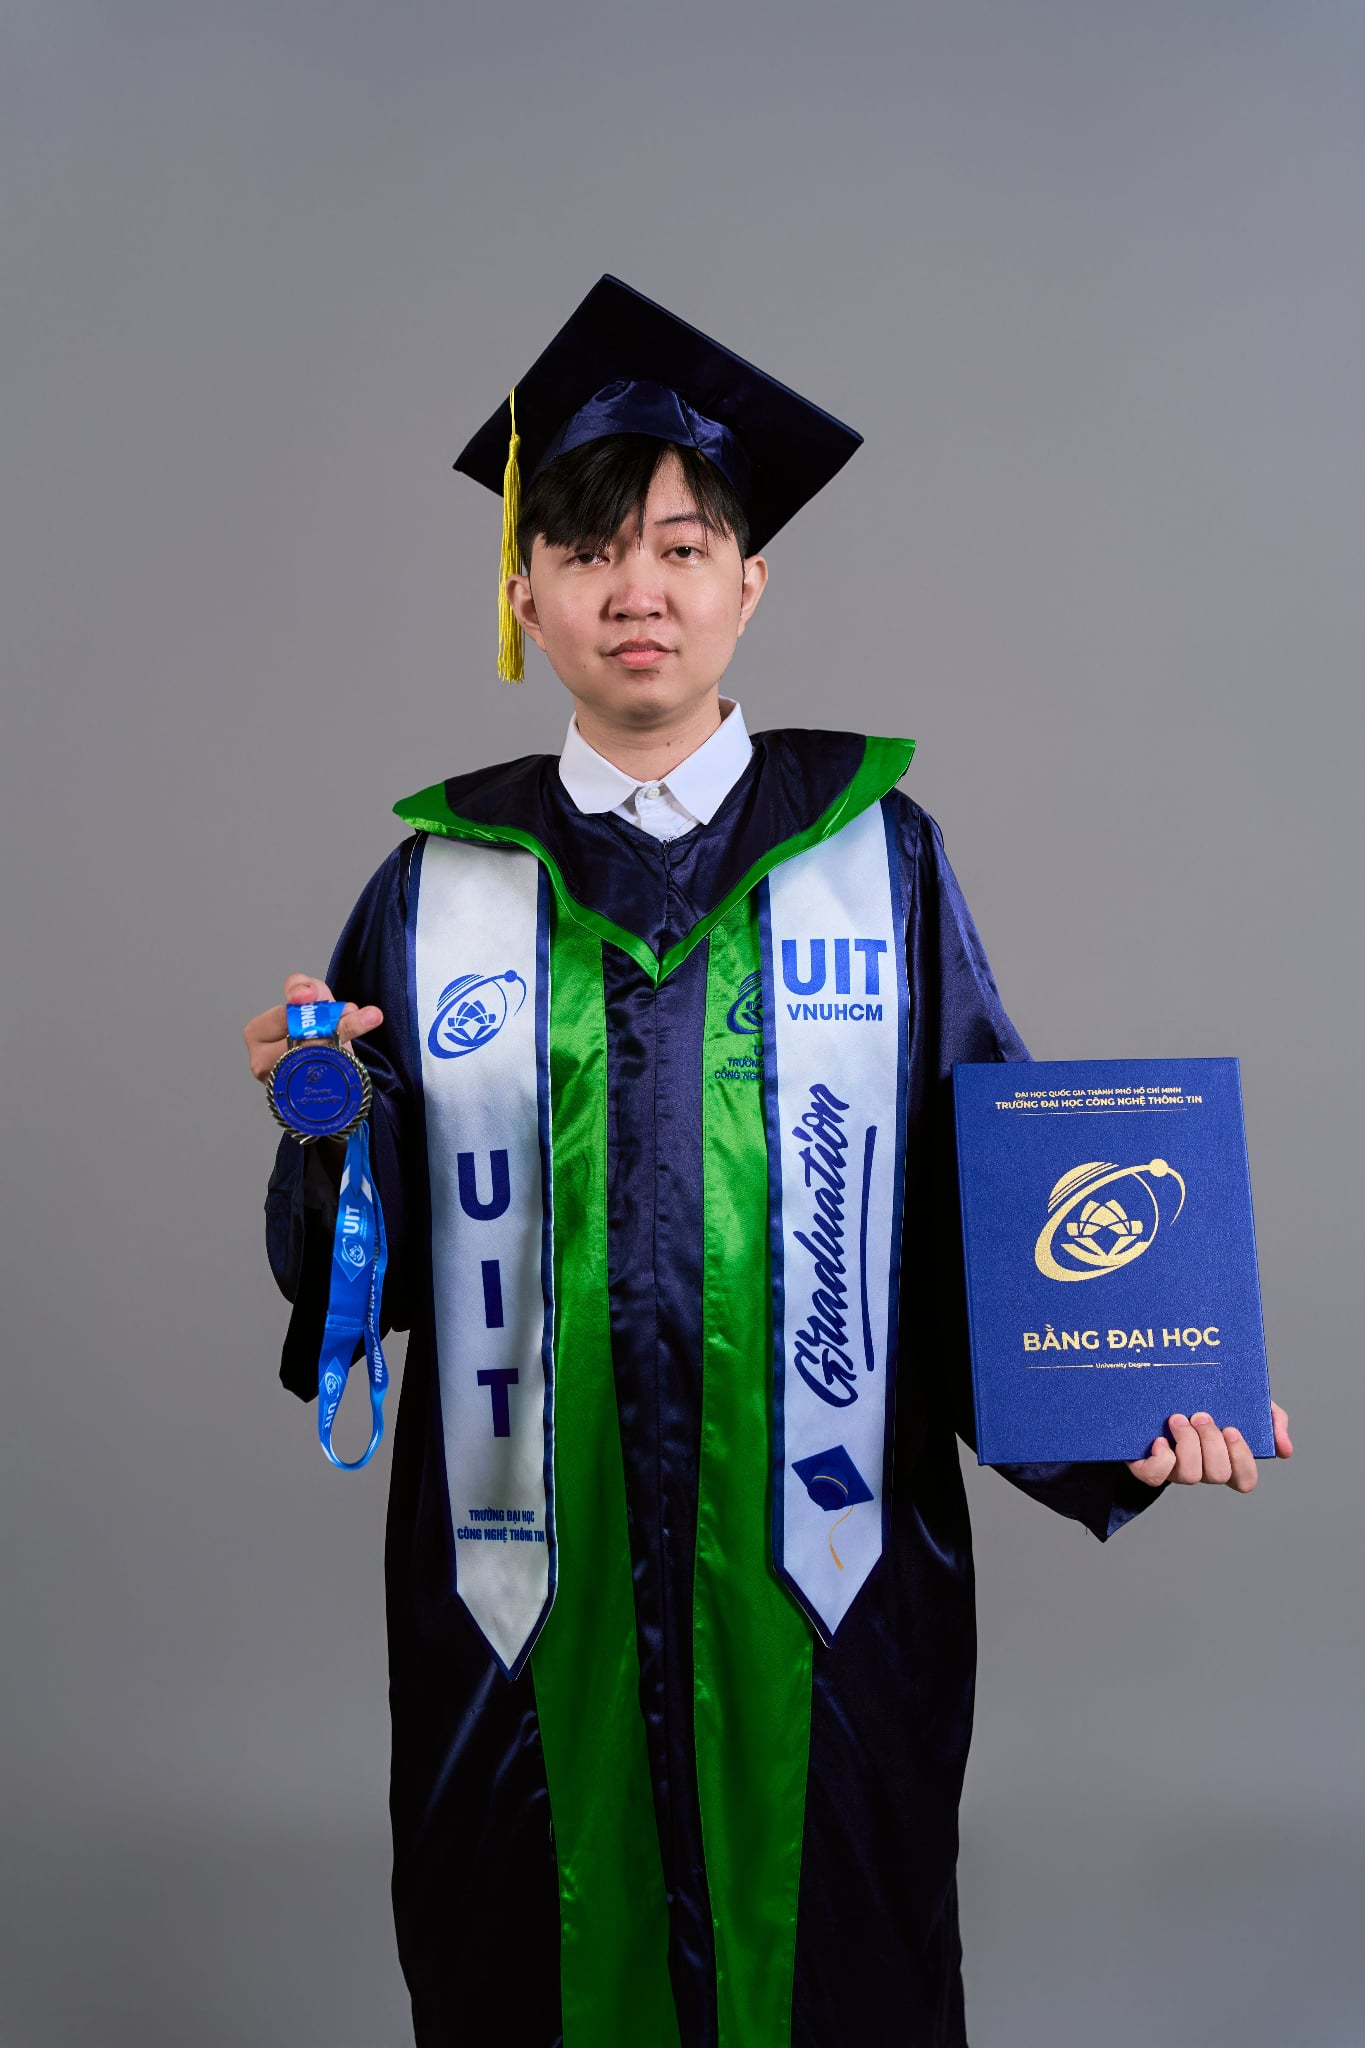
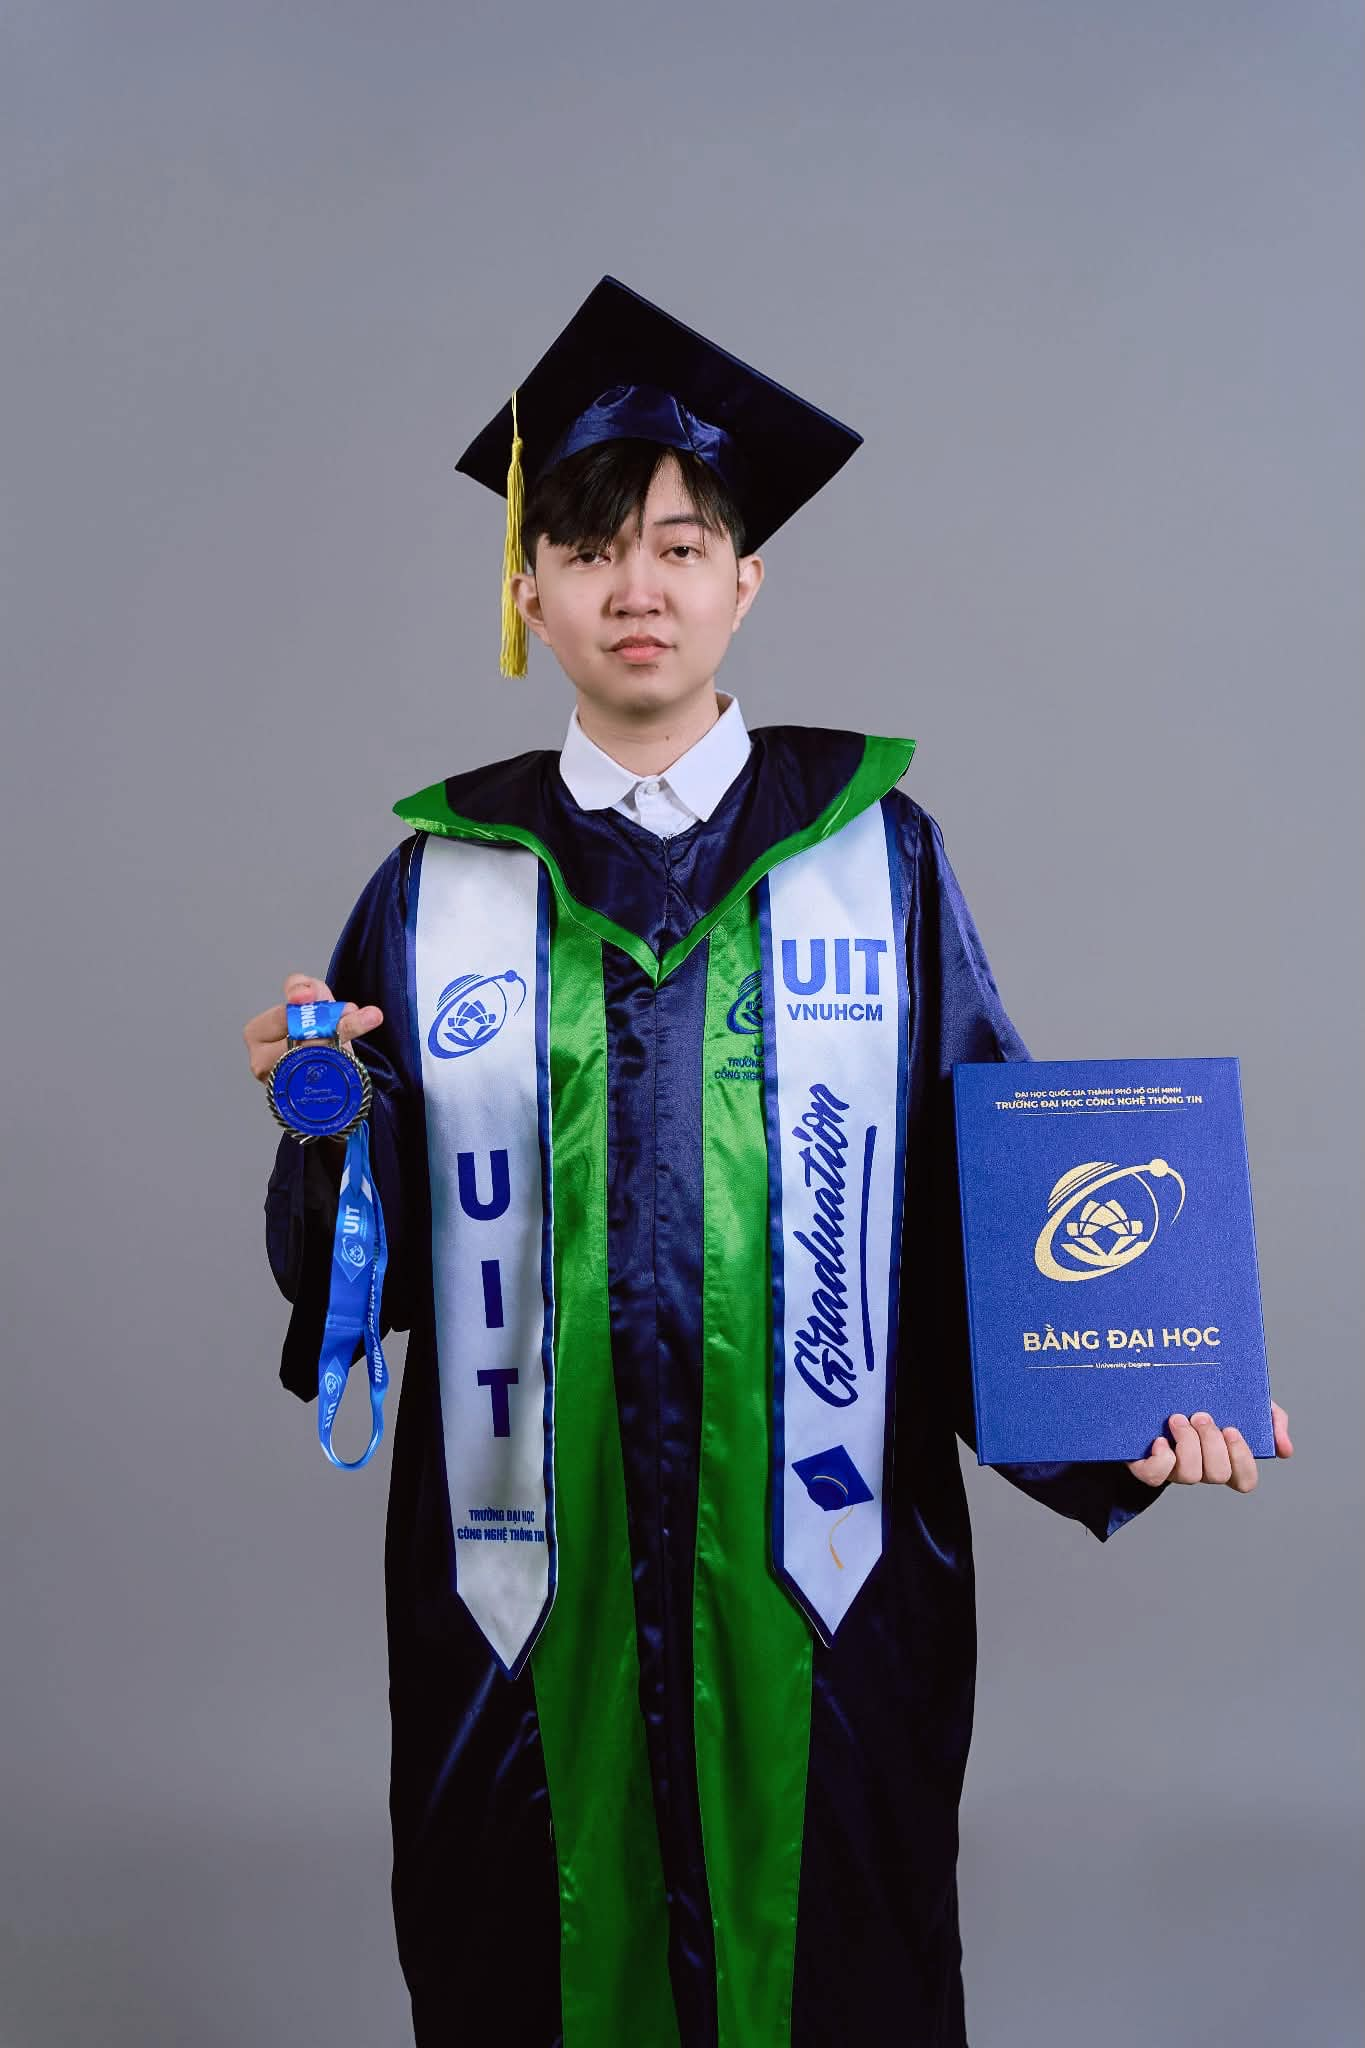
docs: add detailed config field comments
Update student portrait image.

diff --git a/invite.config.js b/invite.config.js
@@ -1,80 +1,169 @@
 /* =========================================================
    CHỈ SỬA FILE NÀY — mọi thông tin thiệp nằm ở đây.
+   Sau khi sửa, lưu file và tải lại trang (Ctrl+F5 nếu cần).
    ========================================================= */
 window.INVITE = {
+  // --- Thông tin cá nhân ---
+  // Họ tên đầy đủ (hiển thị lớn trên thiệp, tiêu đề trang, lịch, chân trang).
+  // Cách lấy: ghi đúng họ tên của bạn.
   studentName: "Trần Võ Sơn Tùng",
+  // Niên khóa tốt nghiệp (hiển thị ở dòng "Khoá ...").
+  // Cách lấy: năm tốt nghiệp, ví dụ "2026".
   graduationYear: "2026",
+  // Tên gọi thân mật/danh xưng. Dùng thay cho {name} trong tin nhắn SMS và hướng dẫn.
+  // Cách lấy: biệt danh hoặc cách bạn muốn người khác gọi (vd "Tùng", "Sơn Tùng").
   nickname: "Tùng Núi, Cụ",
+  // Học vị/ngành (hiển thị dưới tên và trong mô tả lịch).
+  // Cách lấy: ghi theo bằng tốt nghiệp, vd "Cử nhân Công nghệ Thông tin".
   degree: "Cử nhân Công nghệ Thông tin",
+  // Dòng chữ trên dải giấy đầu thiệp.
+  // Cách lấy: tự viết câu chúc/tiêu đề ngắn bạn muốn.
   heroLabel: "Chúc mừng bị đuổi khỏi trường",
-  // Mọi trường ảnh đều nhận URL hoặc file trong assets/.
-  // Có thể gõ "placeholder-portrait.svg" (tự hiểu là assets/placeholder-portrait.svg).
+
+  // --- Ảnh ---
+  // Mỗi trường ảnh nhận: URL ảnh (https://...), hoặc file trong thư mục assets/
+  //   - "assets/ten-anh.jpg" hoặc chỉ "ten-anh.jpg" (tự hiểu là assets/ten-anh.jpg)
+  // Cách lấy file local: chép ảnh vào thư mục assets/ rồi ghi tên file.
+  // Cách lấy URL: tải ảnh lên (Drive/Imgur/...) lấy link trực tiếp, hoặc chuột phải ảnh trên web > Sao chép địa chỉ hình ảnh.
+  // Nếu ảnh lỗi/không tải được, thiệp dùng ảnh dự phòng (entrancePhoto cho ảnh cổng, studentPhoto cho ảnh tốt nghiệp).
+
+  // Ảnh chân dung (ảnh trái ở phần đầu).
   studentPhoto: "assets/student-portrait.jpg",
+  // Ảnh tốt nghiệp (ảnh phải ở phần đầu). Nếu lỗi sẽ dùng studentPhoto.
   gradPhoto: "assets/graduate-photo.svg",
+  // Ảnh cổng/dự phòng khi ảnh của cổng không tải được.
   entrancePhoto: "assets/placeholder-gate.svg",
 
-  // Thời gian thực cho đếm ngược và "Lưu vào lịch" (mốc bắt đầu lễ).
+  // --- Thời gian thực (đếm ngược & "Lưu vào lịch") ---
+  // Đây là mốc thời gian máy dùng để đếm ngược và tạo file lịch (.ics), không phải chữ hiển thị.
   event: {
-    // Ngày: "DD/MM/YYYY" (vd "25/11/2026") hoặc "YYYY-MM-DD"
+    // Ngày diễn ra.
+    // Định dạng: "DD/MM/YYYY" (vd "25/11/2026") hoặc "YYYY-MM-DD" (vd "2026-11-25").
+    // Cách lấy: xem ngày trên giấy mời/lịch trường.
     date: "25/11/2026",
-    // Giờ 24h (mốc bắt đầu lễ): "HH:mm" (vd "13:30", "08:00")
+    // Giờ (mốc bắt đầu lễ), theo 24 giờ.
+    // Định dạng: "HH:mm" (vd "13:30", "08:00", "17:00").
     time: "13:30",
-    // Múi giờ/lệch UTC: "±HH:MM" (mặc định "+07:00" nếu bỏ trống)
+    // Múi giờ (độ lệch so với UTC).
+    // Định dạng: "±HH:MM". Việt Nam là "+07:00". Bỏ trống sẽ mặc định "+07:00".
     timezone: "+07:00",
   },
+
+  // --- Nội dung thời gian hiển thị trên thiệp (tự do viết) ---
+  // Dòng ngày hiển thị (bên cạnh nhãn "Giờ ghé thăm").
+  // Cách lấy: tự viết ngày tháng bằng tiếng Việt như bạn muốn hiện.
   dateDisplay: "Thứ Tư, ngày 25 tháng 11 năm 2026",
+  // Dòng giờ/khung giờ hiển thị (nổi bật, cùng hàng với ngày).
+  // Cách lấy: ghi khung giờ bạn muốn khách ghé (vd "Trước 13:30 hoặc sau 16:30").
   timeDisplay: "Trước 13:30 hoặc sau 16:30",
+  // Ghi chú nhỏ bên dưới phần thời gian.
+  // Cách lấy: giải thích thêm để khách hiểu nên đến lúc nào.
   timeNote: "Mình bận lễ từ 13:30 đến 16:30, bạn ghé ngoài khung giờ này để tụi mình có thời gian gặp nhau nhé.",
 
+  // --- Địa điểm chung ---
+  // Tên địa điểm/tòa nhà (hiển thị ở đầu thiệp, chân trang và dùng trong lịch/bản đồ).
+  // Cách lấy: tên hội trường/tòa theo thông báo của trường.
   venue: "Hội trường A – Đại học Quốc gia TP. Hồ Chí Minh",
+  // Địa chỉ khu vực (hiển thị dưới ảnh cổng, dùng trong lịch và khi sao chép cho MultiGo).
+  // Cách lấy: địa chỉ/quận/phường hoặc khu vực ghi trên Google Maps.
   address: "Linh Trung, Thủ Đức, TP. Hồ Chí Minh",
 
-  // Mỗi cổng có một ảnh — dán URL hoặc gõ tên file trong assets/.
-  // Ảnh đổi theo cổng đang chọn. Nếu link lỗi, thiệp dùng ảnh dự phòng bên dưới.
+  // --- Cổng vào (chọn cổng -> đổi ảnh, ghi chú, liên kết bản đồ & hướng dẫn) ---
+  // Mỗi cổng là một mục trong danh sách. Có thể thêm/bớt cổng (giữ cấu trúc như mẫu).
   gates: [
     {
+      // Tên cổng hiển thị trên nút chọn, chú thích ảnh và dùng thay {gate} trong hướng dẫn.
+      // Cách lấy: tên/gọi tắt cổng theo biển báo hoặc cách mọi người hay gọi.
       name: "Cổng trước UIT (A)",
+      // Ghi chú ngắn về cổng (hiển thị dưới nhóm nút chọn cổng).
+      // Cách lấy: mẹo đi lại, vd cổng gần xe buýt/taxi nhất.
       note: "Gần xe buýt 170 nhất.",
+      // Ảnh cổng: URL hoặc file trong assets/ (xem hướng dẫn phần Ảnh ở trên).
+      // Ảnh sẽ đổi theo cổng đang chọn.
       photo: "https://lh3.googleusercontent.com/gps-cs-s/ANWiy9TgHAkW0VZrPxYdv2SwuYGbM4Ab0Dpjq2fDwwklqxPI9YmAAOgjmWMEHb6kxZu6msAQaYi5hpAKANZBMdtvli3-jIZ3FMelpiN9J0l3ylrY_gPiBTDrUbQ9QeqGrPgjkcys7jTMbmD_mWqk=w224-h298-n-k-no",
+      // Tọa độ thực của cổng (vĩ độ, kinh độ) để mở Google Maps/Apple Maps đúng điểm.
+      // Cách lấy: mở Google Maps > nhấp chuột phải vào đúng vị trí cổng > bấm vào dãy số đầu tiên để sao chép (số thứ nhất là lat, số thứ hai là lng).
       lat: 10.8704192, lng: 106.8021049
     },
     {
+      // Tên cổng hiển thị và dùng thay {gate} trong hướng dẫn.
       name: "Cổng sau UIT (B) - Đối diện Suối tiên",
+      // Ghi chú ngắn về cổng.
       note: "Cổng này lội bộ từ xe bus hơi xa",
+      // Ảnh cổng (URL hoặc tên file trong assets/).
       photo: "assets/gate-b.png",
+      // Tọa độ thực của cổng (lat: vĩ độ, lng: kinh độ) lấy từ Google Maps.
       lat: 10.8690162, lng: 106.8039559
     },
   ],
 
+  // --- Phần địa điểm & chỉ đường (chữ hiển thị) ---
+  // Tiêu đề mục địa điểm.
   locationTitle: "Chọn cổng để được chỉ đường",
+  // Dòng mô tả ngắn dưới tiêu đề (hướng dẫn chọn cổng/lưu ý đường).
   locationHint: "Đường chính phong tỏa. Chọn cổng bạn sẽ đến.",
+  // Gợi ý nhỏ dưới nhóm nút bản đồ.
   mapHint: "Chạm để mở bản đồ trên điện thoại.",
+
+  // --- Tour 360° ---
+  // Đường link tour tham quan 360° khuôn viên.
+  // Cách lấy: dán URL trang tour (vd tour của trường). Nếu không dùng, có thể để "" (chuỗi rỗng).
   tour360Url: "https://tuyensinh.uit.edu.vn/uit-tour-360/",
+  // Nhãn hiển thị trên nút tour.
   tourLabel: "Tour 360°",
-  // "modal" = nhúng tour ngay trên thiệp. "tab" = mở thẳng tab mới.
-  // Tour đã có sẵn nhạc autoplay; không thêm nhạc riêng để tránh nhân đôi tiếng.
+  // Cách mở tour: "modal" = nhúng ngay trên thiệp; "tab" = mở tab mới.
+  // Lưu ý: tour nhúng có thể tự phát âm thanh của chính tour.
   tourMode: "modal",
+
+  // --- MultiGo (dự phòng khi cần app gọi xe/chỉ đường riêng) ---
+  // Link mở MultiGo. Nút "MultiGo" sẽ sao chép địa chỉ rồi mở link này để bạn dán tìm đường.
+  // Cách lấy: giữ link trang/app MultiGo bạn muốn dùng.
   multiGoUrl: "https://multigo.golabs.vn/",
+  // Thông báo hiện ra sau khi sao chép địa chỉ (nhấn nút MultiGo).
   multiGoCopiedMessage: "Đã sao chép địa chỉ. Bạn có thể dán vào MultiGo để tìm đường.",
 
+  // --- Liên hệ ---
+  // Số điện thoại hiển thị (có thể thêm khoảng trắng/dấu cho dễ đọc).
+  // Cách lấy: ghi số của bạn theo dạng dễ nhìn, vd "+84 392 211 343".
   phoneDisplay: "+84 392 211 343",
+  // Số dùng để gọi/nhắn (tel:/sms:), nên viết liền, có mã quốc gia.
+  // Cách lấy: số của bạn dạng +84..., bỏ khoảng trắng, vd "+84392211343".
   phoneDial: "+84392211343",
+  // Messenger: username/ID hoặc link đầy đủ.
+  // Cách lấy: vào trang Facebook cá nhân > lấy phần tên sau facebook.com/ (username), hoặc dán link https://m.me/<username>.
   messenger: "Tranvosontung",
+  // Zalo: số điện thoại (không cần dấu +) hoặc link đầy đủ.
+  // Cách lấy: số Zalo của bạn (vd "0392211343" hoặc "84912345678"), hoặc dán link https://zalo.me/<số>.
   zalo: "84912345678",
 
+  // --- Lời mời, SMS và lời kết ---
+  // Giá trị thay cho {date} trong tin nhắn SMS và hướng dẫn (steps).
+  // Cách lấy: ghi ngày/khung giờ bạn muốn nhắc trong tin nhắn (tự do, không bắt buộc trùng dateDisplay).
   rsvpDate: "05 tháng 12 năm 2026",
+  // Mẫu tin nhắn SMS khi bấm "Nhắn tin". Hỗ trợ: {name} -> nickname, {date} -> rsvpDate.
+  // Cách lấy: tự viết nội dung; giữ {name}/{date} nếu muốn tự điền.
   smsMessage: "Chào {name}, mình xác nhận sẽ đến dự lễ tốt nghiệp vào {date}. Hẹn gặp bạn tại buổi lễ.",
+  // Dòng chữ trên dải giấy phần kết.
   closingLine: "Hẹn gặp bạn tại buổi lễ.",
-
+  // Lời mời ngắn trong thẻ "Lời mời".
   message: "Mình mời bạn đến chia vui trong ngày tốt nghiệp. Có bạn ở đó là ngày ấy thêm trọn vẹn.",
 
+  // --- Xe buýt ---
+  // Ghi chú chung về xe buýt/bãi đỗ.
   busNote: "Xe buýt và xe đưa đón đỗ quanh khuôn viên.",
+  // Ghi chú nhỏ cuối danh sách xe buýt.
   busFootnote: "Giờ xe có thể thay đổi.",
+  // Danh sách tuyến xe buýt. Mỗi tuyến gồm: number (số tuyến), route (lộ trình), detail (mẹo đi bộ/điểm dừng), time (giờ chạy).
+  // Cách lấy: tra trên BusMap (busmap.vn), Google Maps (chỉ đường bằng xe buýt) hoặc website xe buýt địa phương; kiểm tra lại giờ chạy gần ngày đi.
   buses: [
     {
+      // Số hiệu tuyến xe buýt.
       number: "170",
+      // Lộ trình chính (điểm đầu -> điểm cuối).
       route: "Bến xe buýt ĐHQG (Khu A) → KTX Khu B",
+      // Chi tiết/mẹo: dừng ở đâu, có cần đi bộ/bắt tiếp tuyến không.
       detail: "Tới sát cổng UIT · Tuyến trung chuyển Làng Đại học, chạy ngang đường Hàn Thuyên dừng sát cổng trường",
+      // Khoảng giờ hoạt động của tuyến (có thể thay đổi).
       time: "05:30 – 21:00"
     },
     {
@@ -102,8 +191,20 @@ window.INVITE = {
       time: "04:30 – 22:00"
     }
   ],
+
+  // --- Hướng dẫn từng bước (đổi theo cổng đang chọn) ---
+  // Mỗi bước gồm title (tiêu đề) và note (ghi chú). Hỗ trợ: {name} -> nickname, {date} -> rsvpDate, {gate} -> tên cổng đang chọn.
+  // Cách lấy: viết các bước ngắn để khách tìm đến chỗ bạn; dùng {gate} để tự chèn tên cổng.
   steps: [
-    { title: "Đến {gate}", note: "Gọi mình nếu ko biết đường." },
-    { title: "Vào toà A", note: "." }
+    {
+      // Tiêu đề bước (vd đến cổng nào). {gate} sẽ được thay bằng tên cổng đang chọn.
+      title: "Đến {gate}",
+      // Ghi chú cho bước.
+      note: "Gọi mình nếu ko biết đường."
+    },
+    {
+      title: "Vào toà A",
+      note: "."
+    }
   ]
 };
